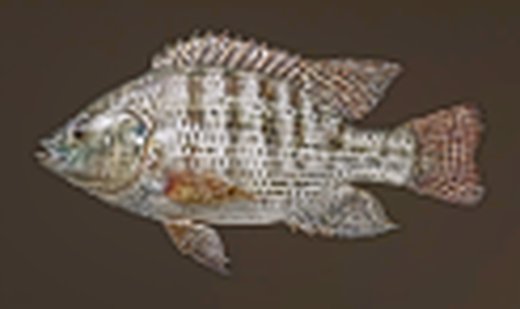
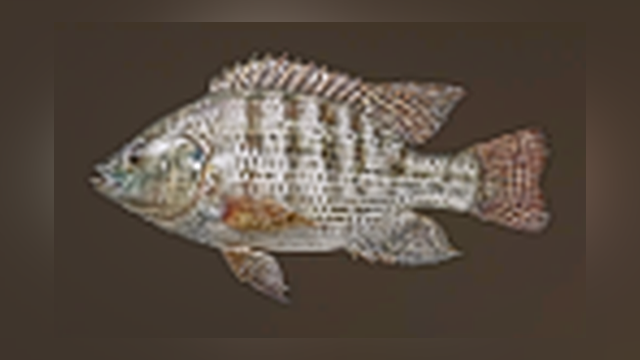
물고기 이미지 16:9 캔버스 통일 + 프레임 꽉 채움 (블러 배경 확장)

Changed region(s): [[0.0615, 0.0, 0.9538, 0.8738], [0.4308, 0.8738, 0.4615, 0.9029]]

diff --git a/css/style.css b/css/style.css
@@ -497,7 +497,7 @@ a.item-card:hover {
   border: 1px solid color-mix(in srgb, var(--tone) 30%, transparent);
   color: var(--tone);
 }
-.thumb img { width: 100%; height: 100%; object-fit: contain; padding: 4px; }
+.thumb img { width: 100%; height: 100%; object-fit: cover; }
 .thumb svg { width: 62%; height: auto; opacity: .85; }
 .thumb-ph {
   position: absolute; left: 0; right: 0; bottom: 6px;
